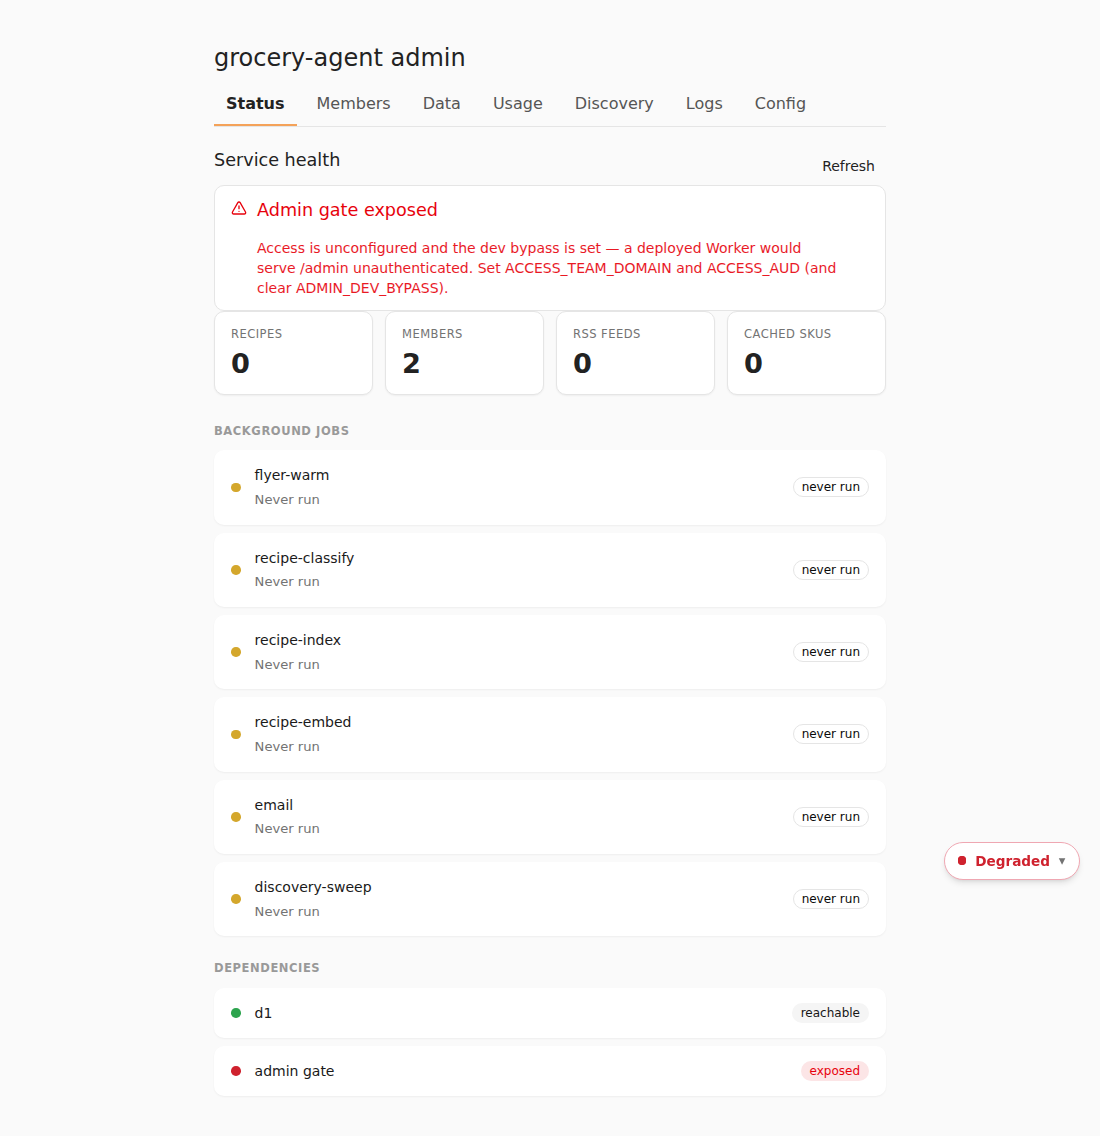
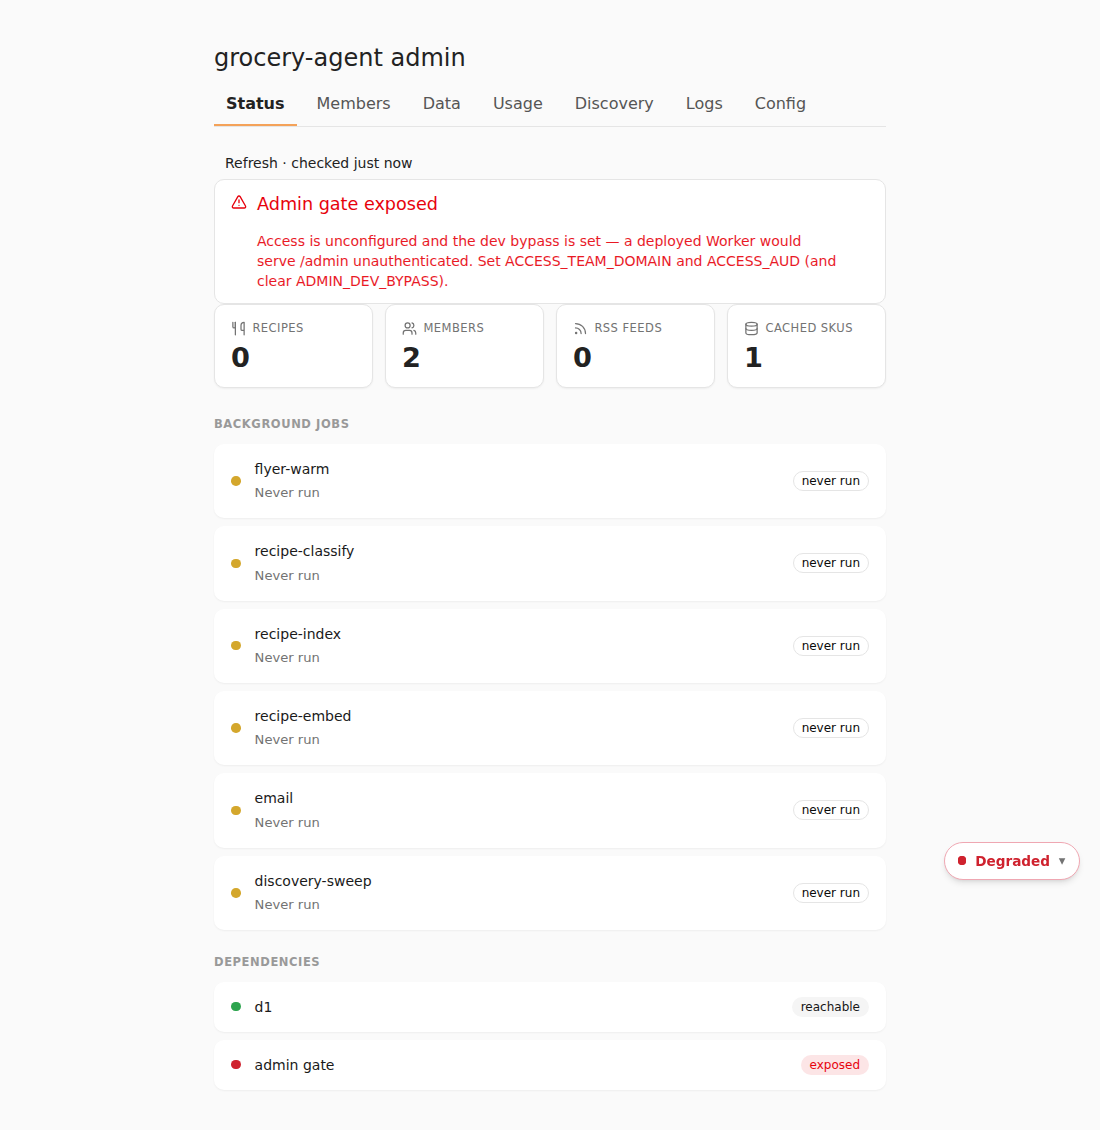
Regenerate admin-visual baselines for the fidelity-pass visuals
Claude-Session: https://claude.ai/code/session_013KrUAyzkxuCQoLHgMDPegy

diff --git a/admin/visual/admin.spec.ts b/admin/visual/admin.spec.ts
@@ -10,9 +10,11 @@ import { test, expect, type Page } from "@playwright/test";
 
 // Most areas render their own `<h2>`/`<h3>` heading (Members doesn't — its page has only the
 // shared shell `<h1>` plus stat tiles and a roster, so it's asserted via the "Invite member"
-// button instead, a control unique to that area).
+// button instead, a control unique to that area). Status likewise has no page-owned heading —
+// the fidelity pass moved the "Service health" rollup into the shell's global health dock — so
+// it's asserted via the "Background jobs" section label instead, a landmark unique to the area.
 const AREAS: ReadonlyArray<readonly [name: string, path: string, assert: (page: Page) => Promise<unknown>]> = [
-  ["status", "/admin", (page) => expect(page.getByRole("heading", { name: "Service health" })).toBeVisible()],
+  ["status", "/admin", (page) => expect(page.getByText("Background jobs")).toBeVisible()],
   ["members", "/admin/members", (page) => expect(page.getByRole("button", { name: "Invite member" })).toBeVisible()],
   ["data", "/admin/data", (page) => expect(page.getByRole("heading", { name: "Recipes" })).toBeVisible()],
   ["usage", "/admin/usage", (page) => expect(page.getByRole("heading", { name: "Usage" })).toBeVisible()],